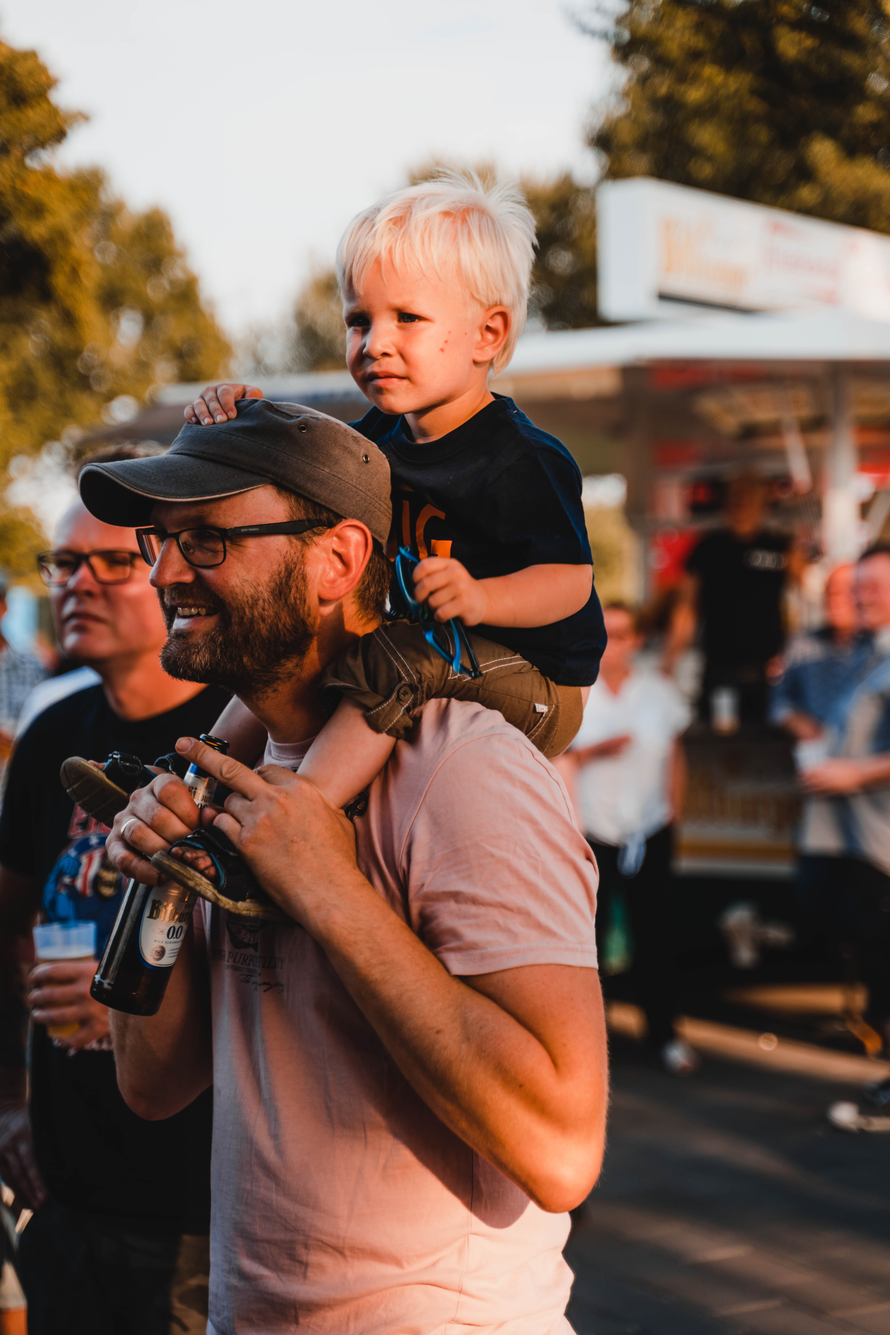
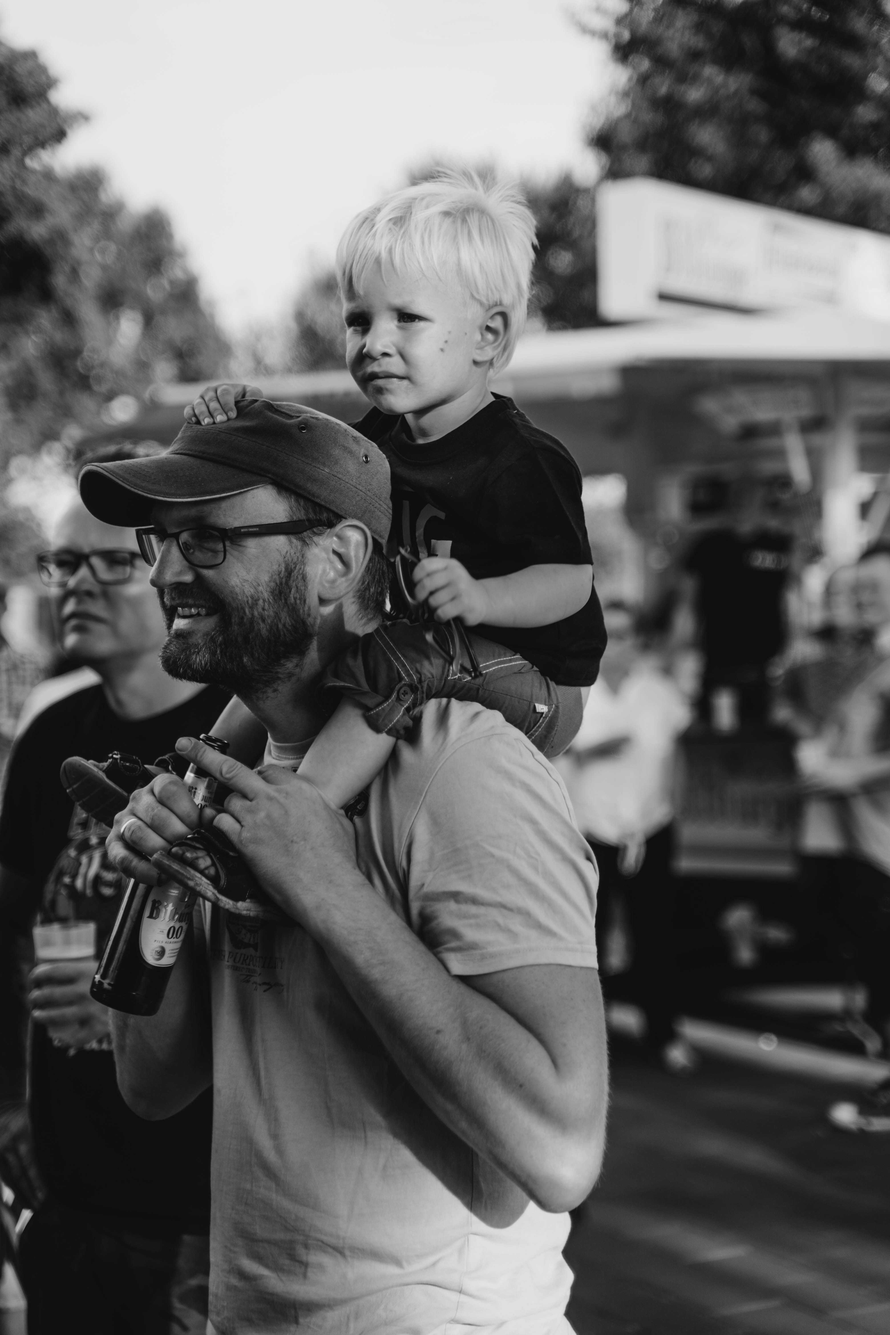
Fixed Main Page
no longer randomly crashes when loaded too quickly

diff --git a/controllers/mainRoutes.js b/controllers/mainRoutes.js
@@ -1,12 +1,11 @@
 // connections
 const router = require("express").Router();
 const { User, Joke } = require("../models");
-const imgStyle = require("../utils/image")
+const imgStyle = require("../utils/image");
 
 // main page get route
 router.get("/", async (req, res) => {
   try {
-   
     res.render("homepage", {
       loggedIn: req.session.loggedIn,
     });
@@ -37,9 +36,10 @@ router.get("/submit", async (req, res) => {
 // random joke generator
 router.get("/random", async (req, res) => {
   // random user id
-  const users = await User.findAll();
 
   try {
+    const users = await User.findAll();
+
     // get one random joke, join with user and vote data
     const jokeData = await Joke.findOne({
       where: [
@@ -54,9 +54,9 @@ router.get("/random", async (req, res) => {
         },
       ],
     });
-
+    console.log(jokeData)
     //serialize
-    const joke = jokeData.get({ plain: true });
+    const joke = jokeData?jokeData.get({ plain: true }):{joke:""};
     console.log(joke);
     // pass into template
     res.render("homepage", {

diff --git a/utils/image.js b/utils/image.js
@@ -7,7 +7,7 @@ execute().catch(console.error);
 //   return grey.save("./public/pictures/Dad_Kid.jpg");
 // }
 
-const imgStyle = async function execute() {
+async function execute() {
   // get images
   const img1 = await Image.load("./public/pictures/Dad_Kid.jpg");
   const grey = img1.grey();
@@ -22,6 +22,6 @@ const imgStyle = async function execute() {
   //   let grey = newImg.grey();
   //   return grey.save(img[i]);
   // });
-};
+}
 
-module.exports = imgStyle;
+module.exports = { imgStyle: execute };
